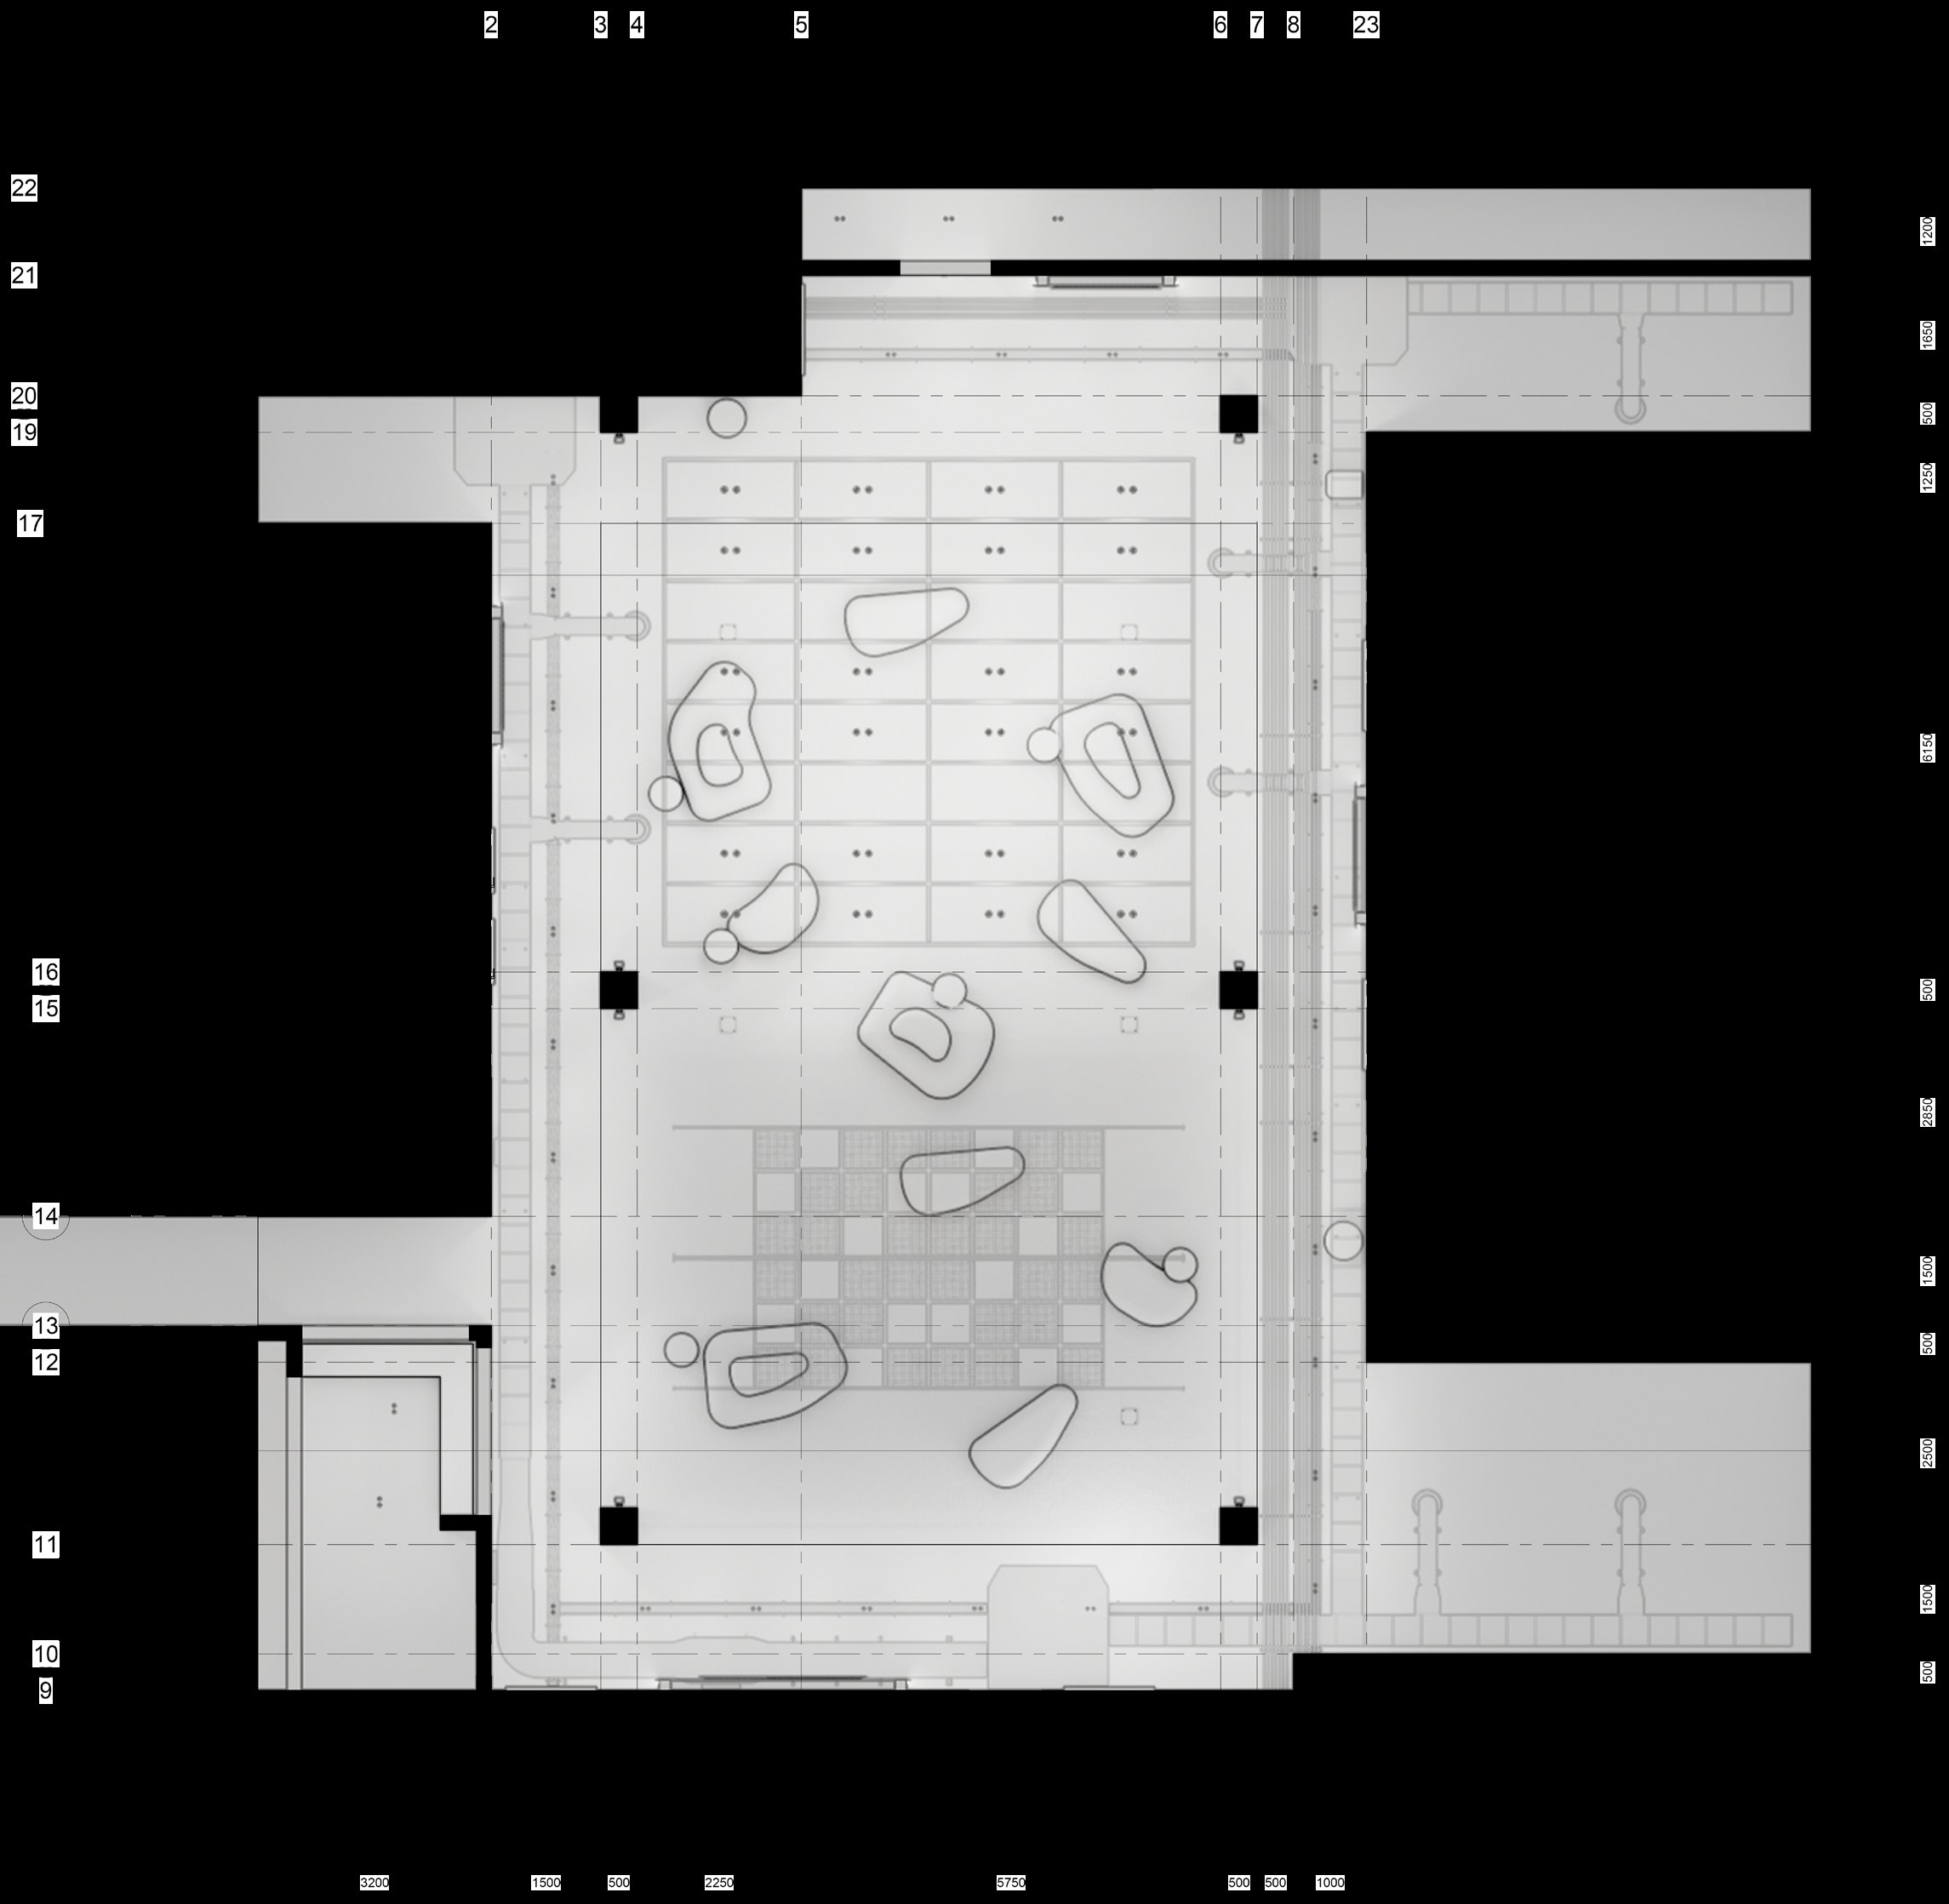
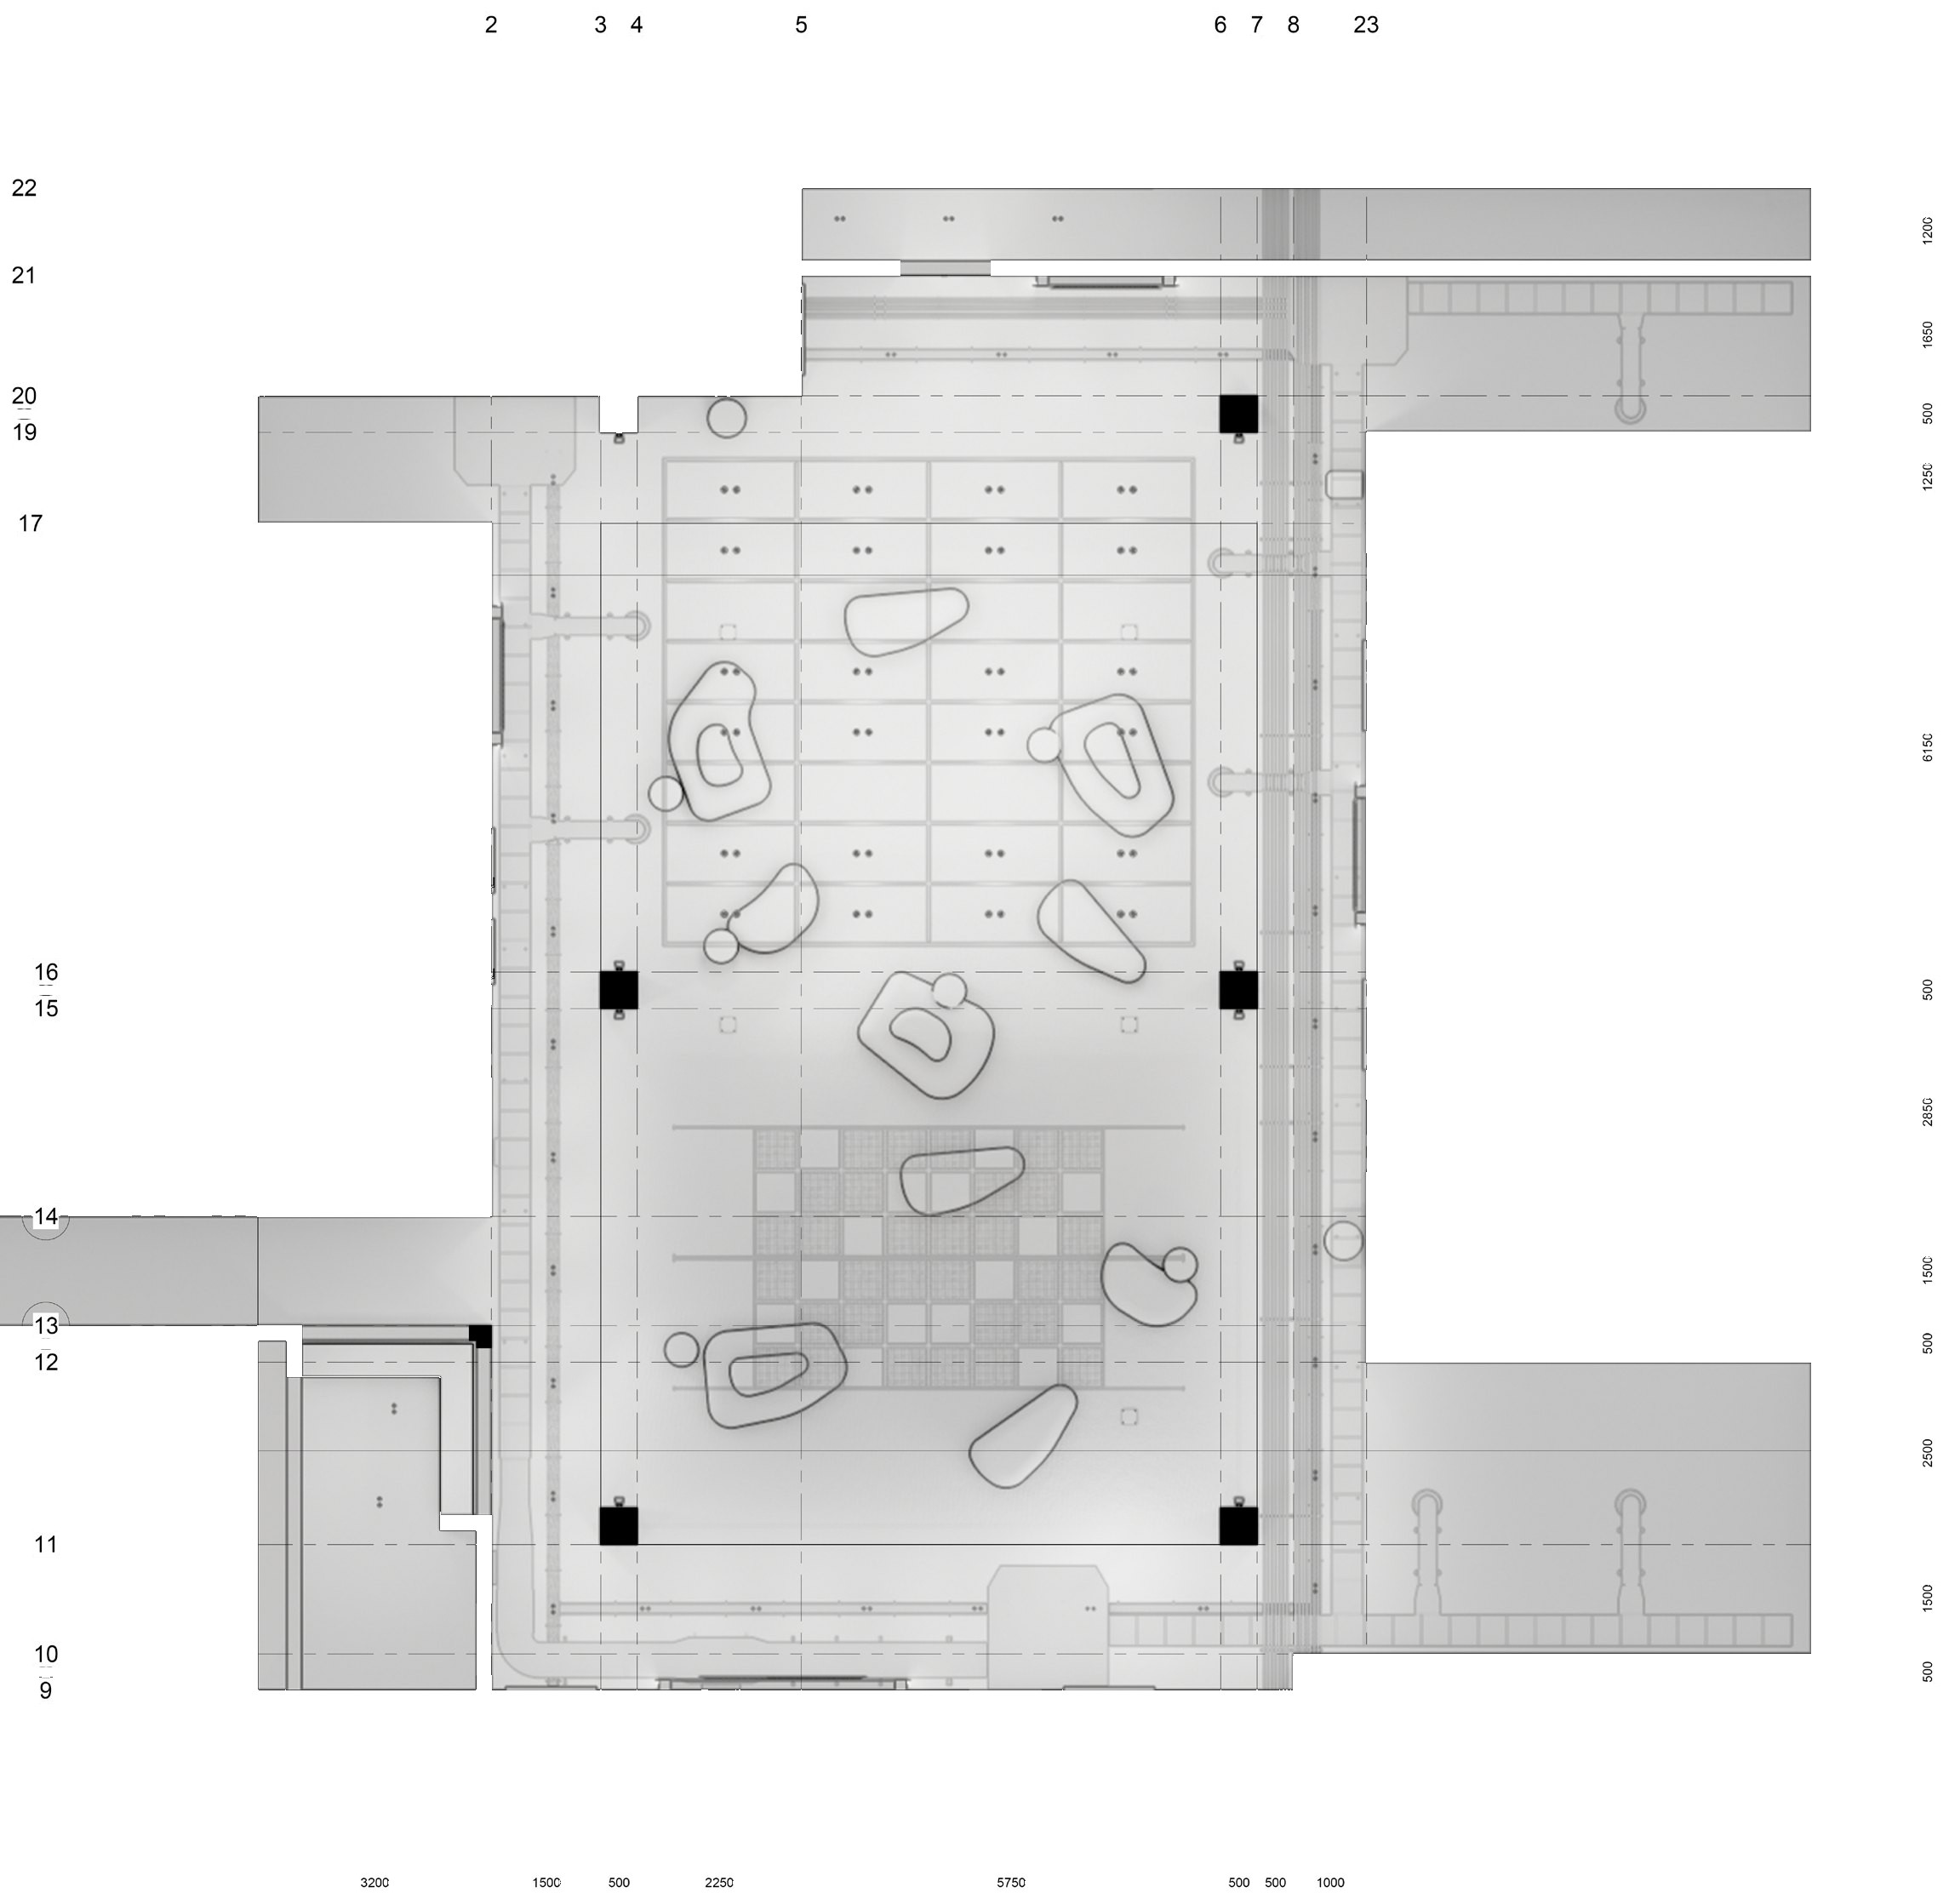
Fix technical drawing image display

diff --git a/styles.css b/styles.css
@@ -1438,6 +1438,35 @@ textarea {
   object-fit: cover;
 }
 
+.image-grid figure.is-drawing {
+  grid-column: 1 / -1;
+}
+
+.image-grid figure.is-drawing .image-frame {
+  aspect-ratio: auto;
+  display: grid;
+  min-height: 0;
+  place-items: center;
+  padding: clamp(18px, 3vw, 44px);
+  border: 1px solid var(--line);
+  background: #ffffff;
+}
+
+.image-grid figure.is-drawing img {
+  width: 100%;
+  max-width: 100%;
+  height: auto;
+  min-height: 0;
+  max-height: none;
+  object-fit: contain;
+  filter: none;
+}
+
+.image-grid figure.is-drawing .image-frame:hover img {
+  transform: none;
+  filter: none;
+}
+
 figcaption {
   margin-top: 9px;
   color: var(--warm-grey);

diff --git a/script.js b/script.js
@@ -367,12 +367,21 @@ function renderContact() {
 }
 
 function figureMarkup(image) {
+  const figureClass = drawingImageClass(image);
+  const loading = figureClass === "is-drawing" ? "eager" : "lazy";
   return `
-    <figure>
-      <div class="image-frame"><img src="${image.src}" alt="${image.caption}" loading="lazy"></div>
+    <figure class="${figureClass}">
+      <div class="image-frame"><img src="${image.src}" alt="${image.caption}" loading="${loading}" decoding="async"></div>
       <figcaption>${image.caption}</figcaption>
     </figure>
   `;
+}
+
+function drawingImageClass(image) {
+  const text = `${image.src || ""} ${image.caption || ""}`;
+  return /(technical|drawing|floorplan|\bplan\b|section|sectional|axonometric|\bcad\b)/i.test(text)
+    ? "is-drawing"
+    : "is-render";
 }
 
 function imageGrid(images = []) {

diff --git a/index.html b/index.html
@@ -34,7 +34,7 @@
       href="https://fonts.googleapis.com/css2?family=Roboto:wght@300;400;500;700;900&display=swap"
       rel="stylesheet"
     />
-    <link rel="stylesheet" href="styles.css?v=third-tone-roboto-2" />
+    <link rel="stylesheet" href="styles.css?v=technical-drawing-display-1" />
   </head>
   <body>
     <a class="skip-link" href="#main">Skip to content</a>
@@ -80,6 +80,6 @@
       </div>
     </footer>
 
-    <script src="script.js"></script>
+    <script src="script.js?v=technical-drawing-display-1"></script>
   </body>
 </html>